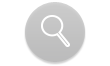
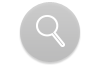
Miglioramenti grafici.

diff --git a/Mindigno/MainButtonBar.m b/Mindigno/MainButtonBar.m
@@ -35,7 +35,7 @@
 
 - (void) startInizialization {
 
-    CGRect rectButtonHome = CGRectMake(77, 7, 50, 33);
+    CGRect rectButtonHome = CGRectMake(77, 6, 50, 33);
     buttonHome = [[UIButton alloc] initWithFrame: rectButtonHome];
     [buttonHome setTag: 0];
     [buttonHome addTarget:self action:@selector(buttonClicked:) forControlEvents:UIControlEventTouchUpInside];
@@ -43,7 +43,9 @@
     //[buttonHome setBackgroundImage:[UIImage imageNamed:@"ico-home_hover.png"] forState:UIControlStateHighlighted];
     [buttonHome setBackgroundImage:[UIImage imageNamed:@"ico-home_click.png"] forState:UIControlStateSelected];
     
-    CGRect rectButtonProfile = CGRectMake(135, 7, 50, 33);
+    //[buttonHome setBackgroundColor: [UIColor greenColor]];
+    
+    CGRect rectButtonProfile = CGRectMake(135, 6, 50, 33);
     buttonProfile = [[UIButton alloc] initWithFrame: rectButtonProfile];
     [buttonProfile setTag: 1];
     [buttonProfile addTarget:self action:@selector(buttonClicked:) forControlEvents:UIControlEventTouchUpInside];
@@ -51,13 +53,17 @@
     //[buttonProfile setBackgroundImage:[UIImage imageNamed:@"ico-profile_hover.png"] forState:UIControlStateHighlighted];
     [buttonProfile setBackgroundImage:[UIImage imageNamed:@"ico-profilo_click.png"] forState:UIControlStateSelected];
     
-    CGRect rectButtonSearch = CGRectMake(193, 7, 50, 33);
+    //[buttonProfile setBackgroundColor: [UIColor yellowColor]];
+    
+    CGRect rectButtonSearch = CGRectMake(193, 6, 50, 33);
     buttonSearch = [[UIButton alloc] initWithFrame: rectButtonSearch];
     [buttonSearch setTag: 2];
     [buttonSearch addTarget:self action:@selector(buttonClicked:) forControlEvents:UIControlEventTouchUpInside];
     [buttonSearch setBackgroundImage:[UIImage imageNamed:@"ico-cerca.png"] forState:UIControlStateNormal];
     //[buttonSearch setBackgroundImage:[UIImage imageNamed:@"ico-search_hover.png"] forState:UIControlStateHighlighted];
     [buttonSearch setBackgroundImage:[UIImage imageNamed:@"ico-cerca_click.png"] forState:UIControlStateSelected];
+    
+    //[buttonSearch setBackgroundColor: [UIColor redColor]];
     
     [buttonSearch setUserInteractionEnabled:NO];
     [buttonSearch setAlpha:0.25];

diff --git a/Mindigno/ProfileUserVC.m b/Mindigno/ProfileUserVC.m
@@ -36,8 +36,8 @@
     
     //
     
-    [labelFollowersText setText:[currentUser followersText]];
-    [labelFollowingText setText:[currentUser followingText]];
+    [labelFollowersText setText:[[currentUser followersText] uppercaseString]];
+    [labelFollowingText setText:[[currentUser followingText] uppercaseString]];
     
     BOOL isCurrentUser = (currentUser == [[Mindigno sharedMindigno] currentUser]);
     
